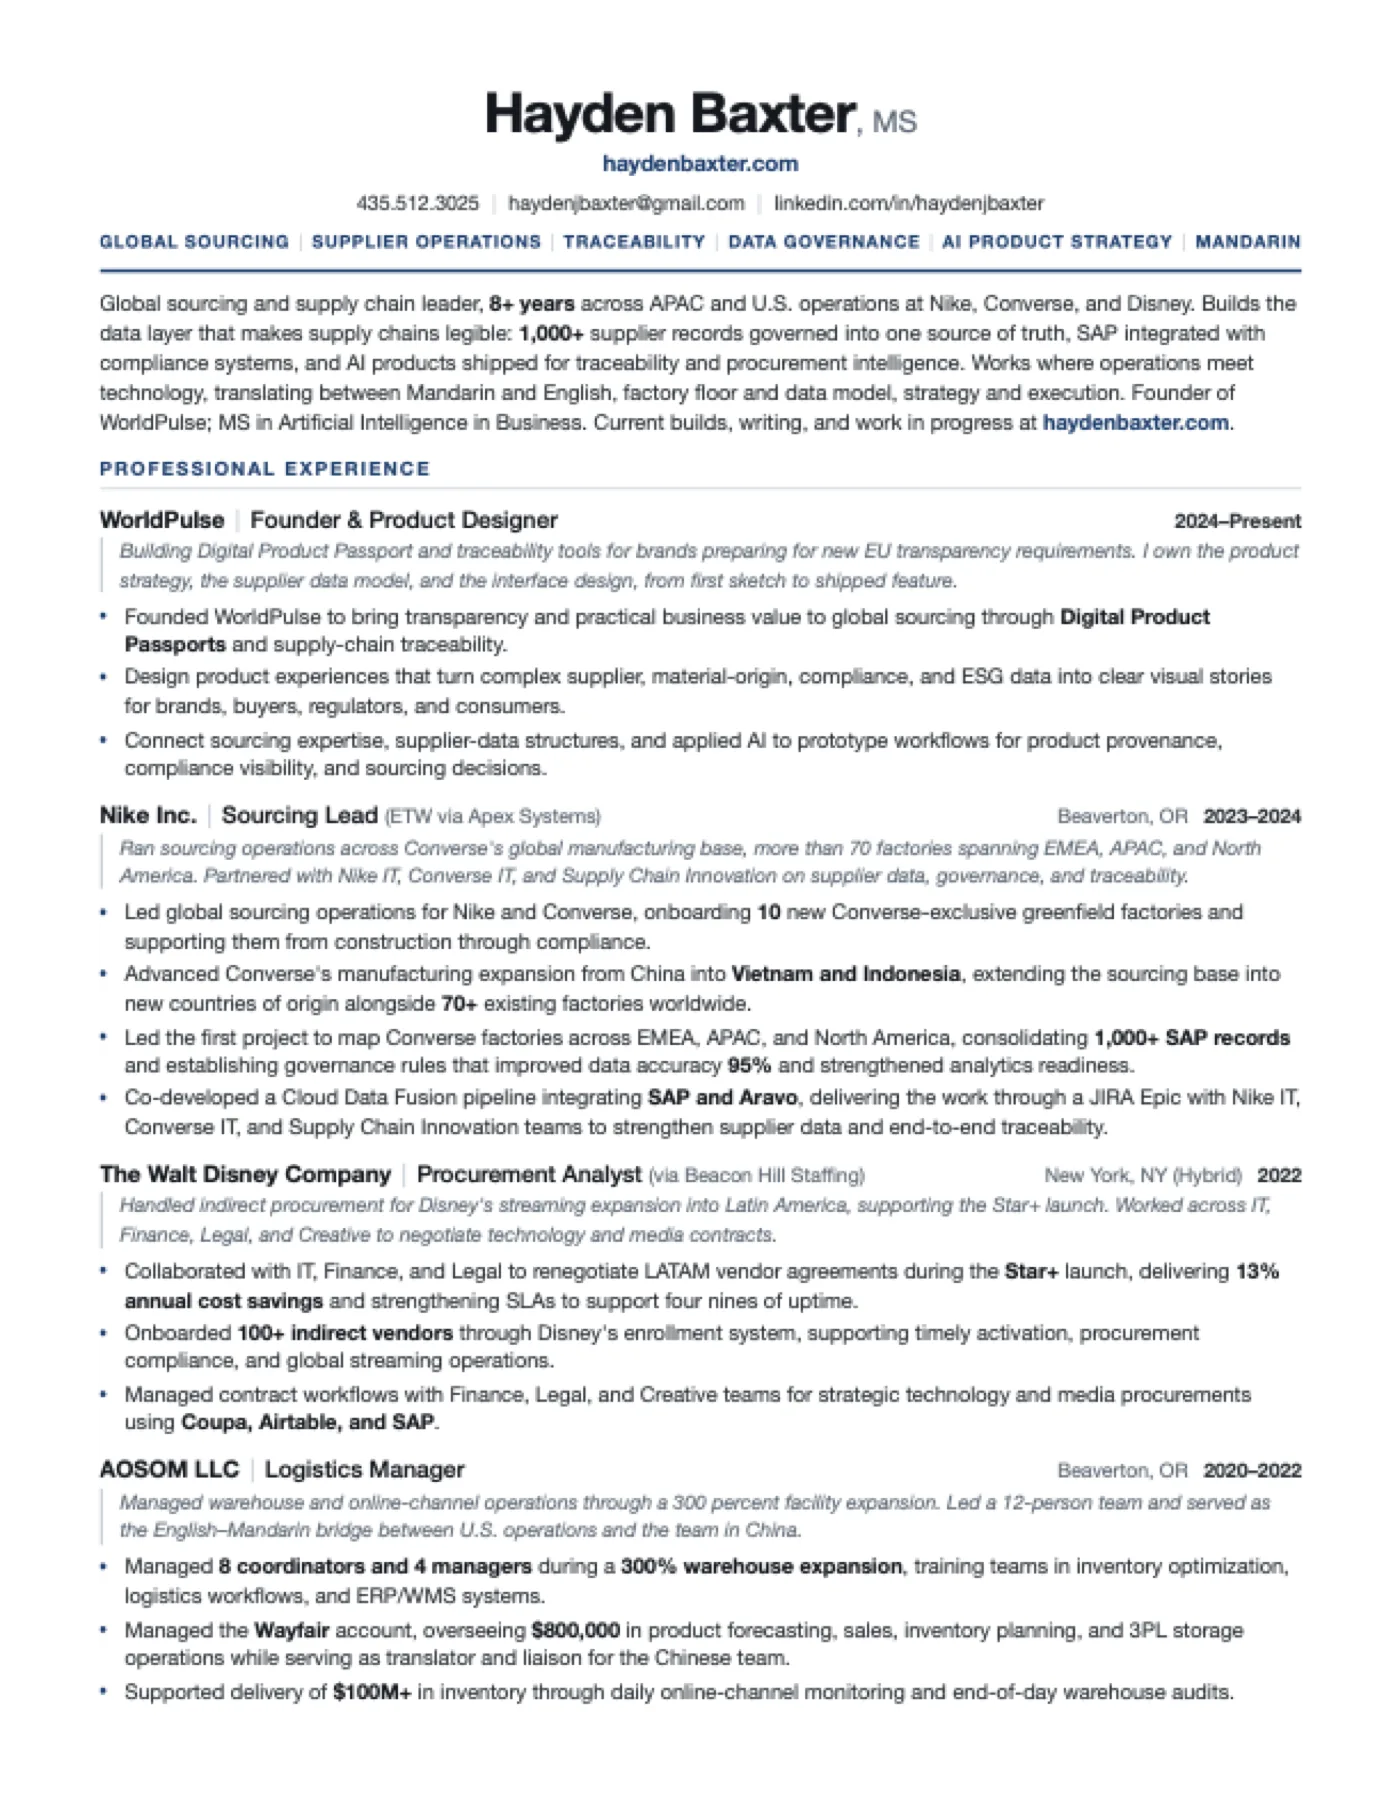
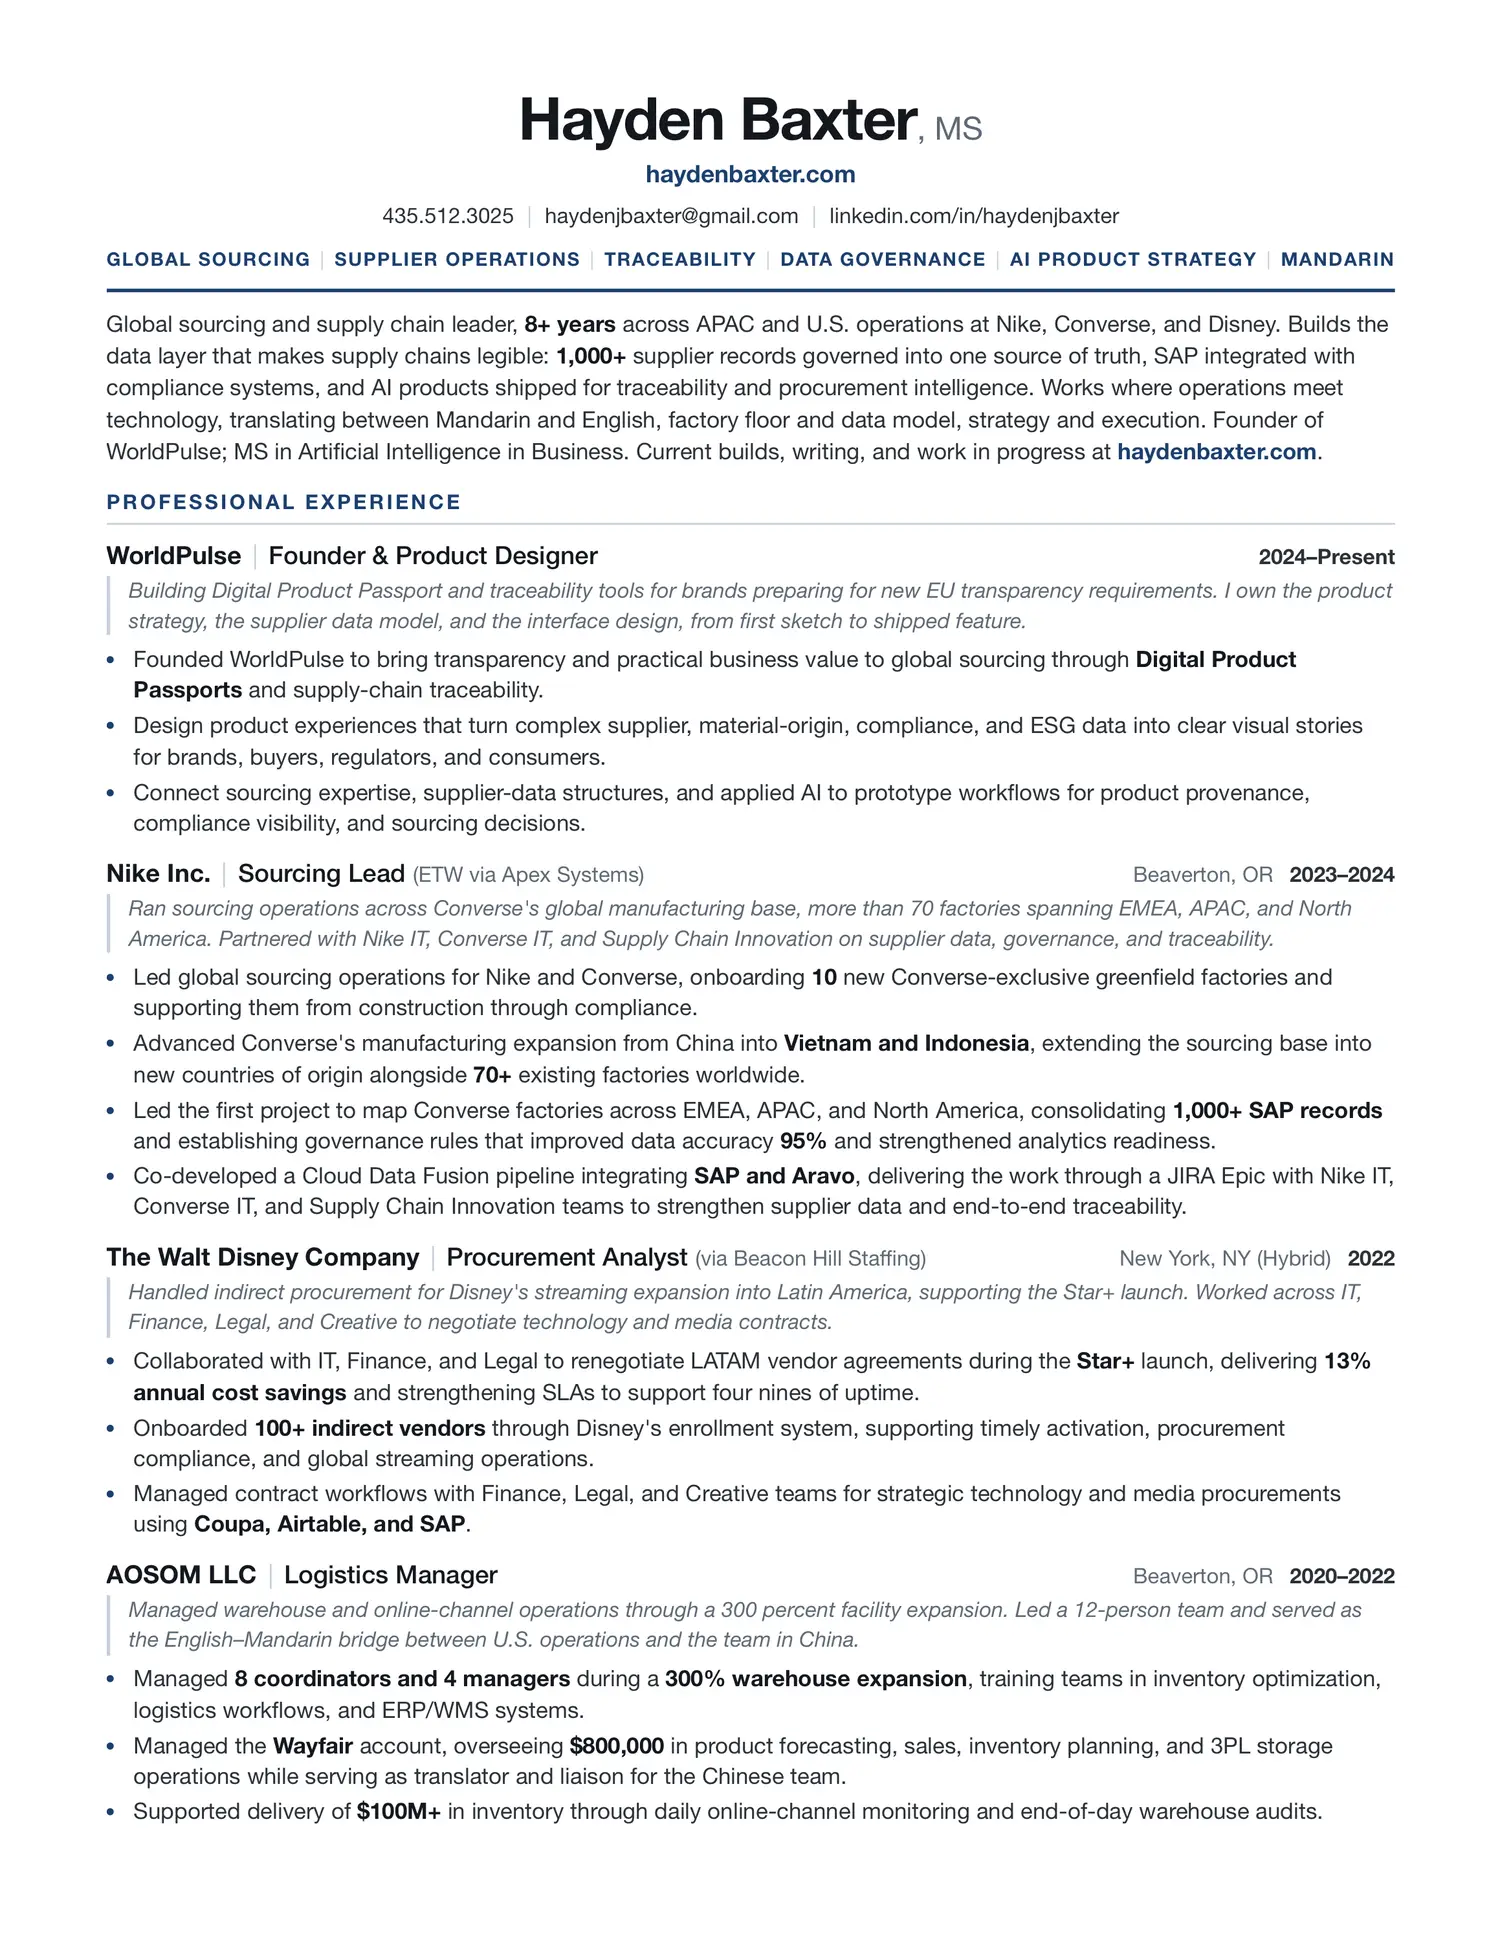
Render the resume preview from vectors instead of upscaling a 72 DPI bitmap
The preview looked soft because it was. `sips` rasterises a PDF at 72 DPI —
612x792 for a US Letter page — and `--resampleWidth 1400` then interpolated
that bitmap up 2.29x. The file claimed 1400px and carried 612px of real
detail, so a 2x display painting it at 736 CSS px got roughly 40% of the
resolution it asked for, and WebP then spent its bitrate encoding the blur.

Switches to `qlmanage`, macOS QuickLook, which re-renders from the PDF's
vectors at a size we choose. Same category of tool as sips: built in, no new
dependency, and the script stays a local-only step because the WebP is
committed. Renders at 2x and downsamples, which antialiases the small type
better than rendering straight to target.

The generator now refuses to upscale rather than doing it silently, which is
the actual defect being fixed here.

Target goes 1400 -> 1500. The viewer is capped at --content-narrow (46rem =
736px) and never grows, so 1472 is the most any 2x display can ask for; 1400
was under it even before the interpolation. Quality goes 82 -> 72, because a
sharp render is more expensive to encode and 82 put the file at 311 KB.

Net: 223 KB of 612px detail becomes 260 KB of 1500px detail.

diff --git a/src/data/resumePreview.ts b/src/data/resumePreview.ts
@@ -6,8 +6,8 @@
 
 export const RESUME_PREVIEW = {
   src: "/documents/resume-preview.webp",
-  width: 1400,
-  height: 1811,
+  width: 1500,
+  height: 1941,
   /** SHA-256 of the PDF this image was rendered from. */
[1 lines of base64/hex data omitted]
 } as const;
